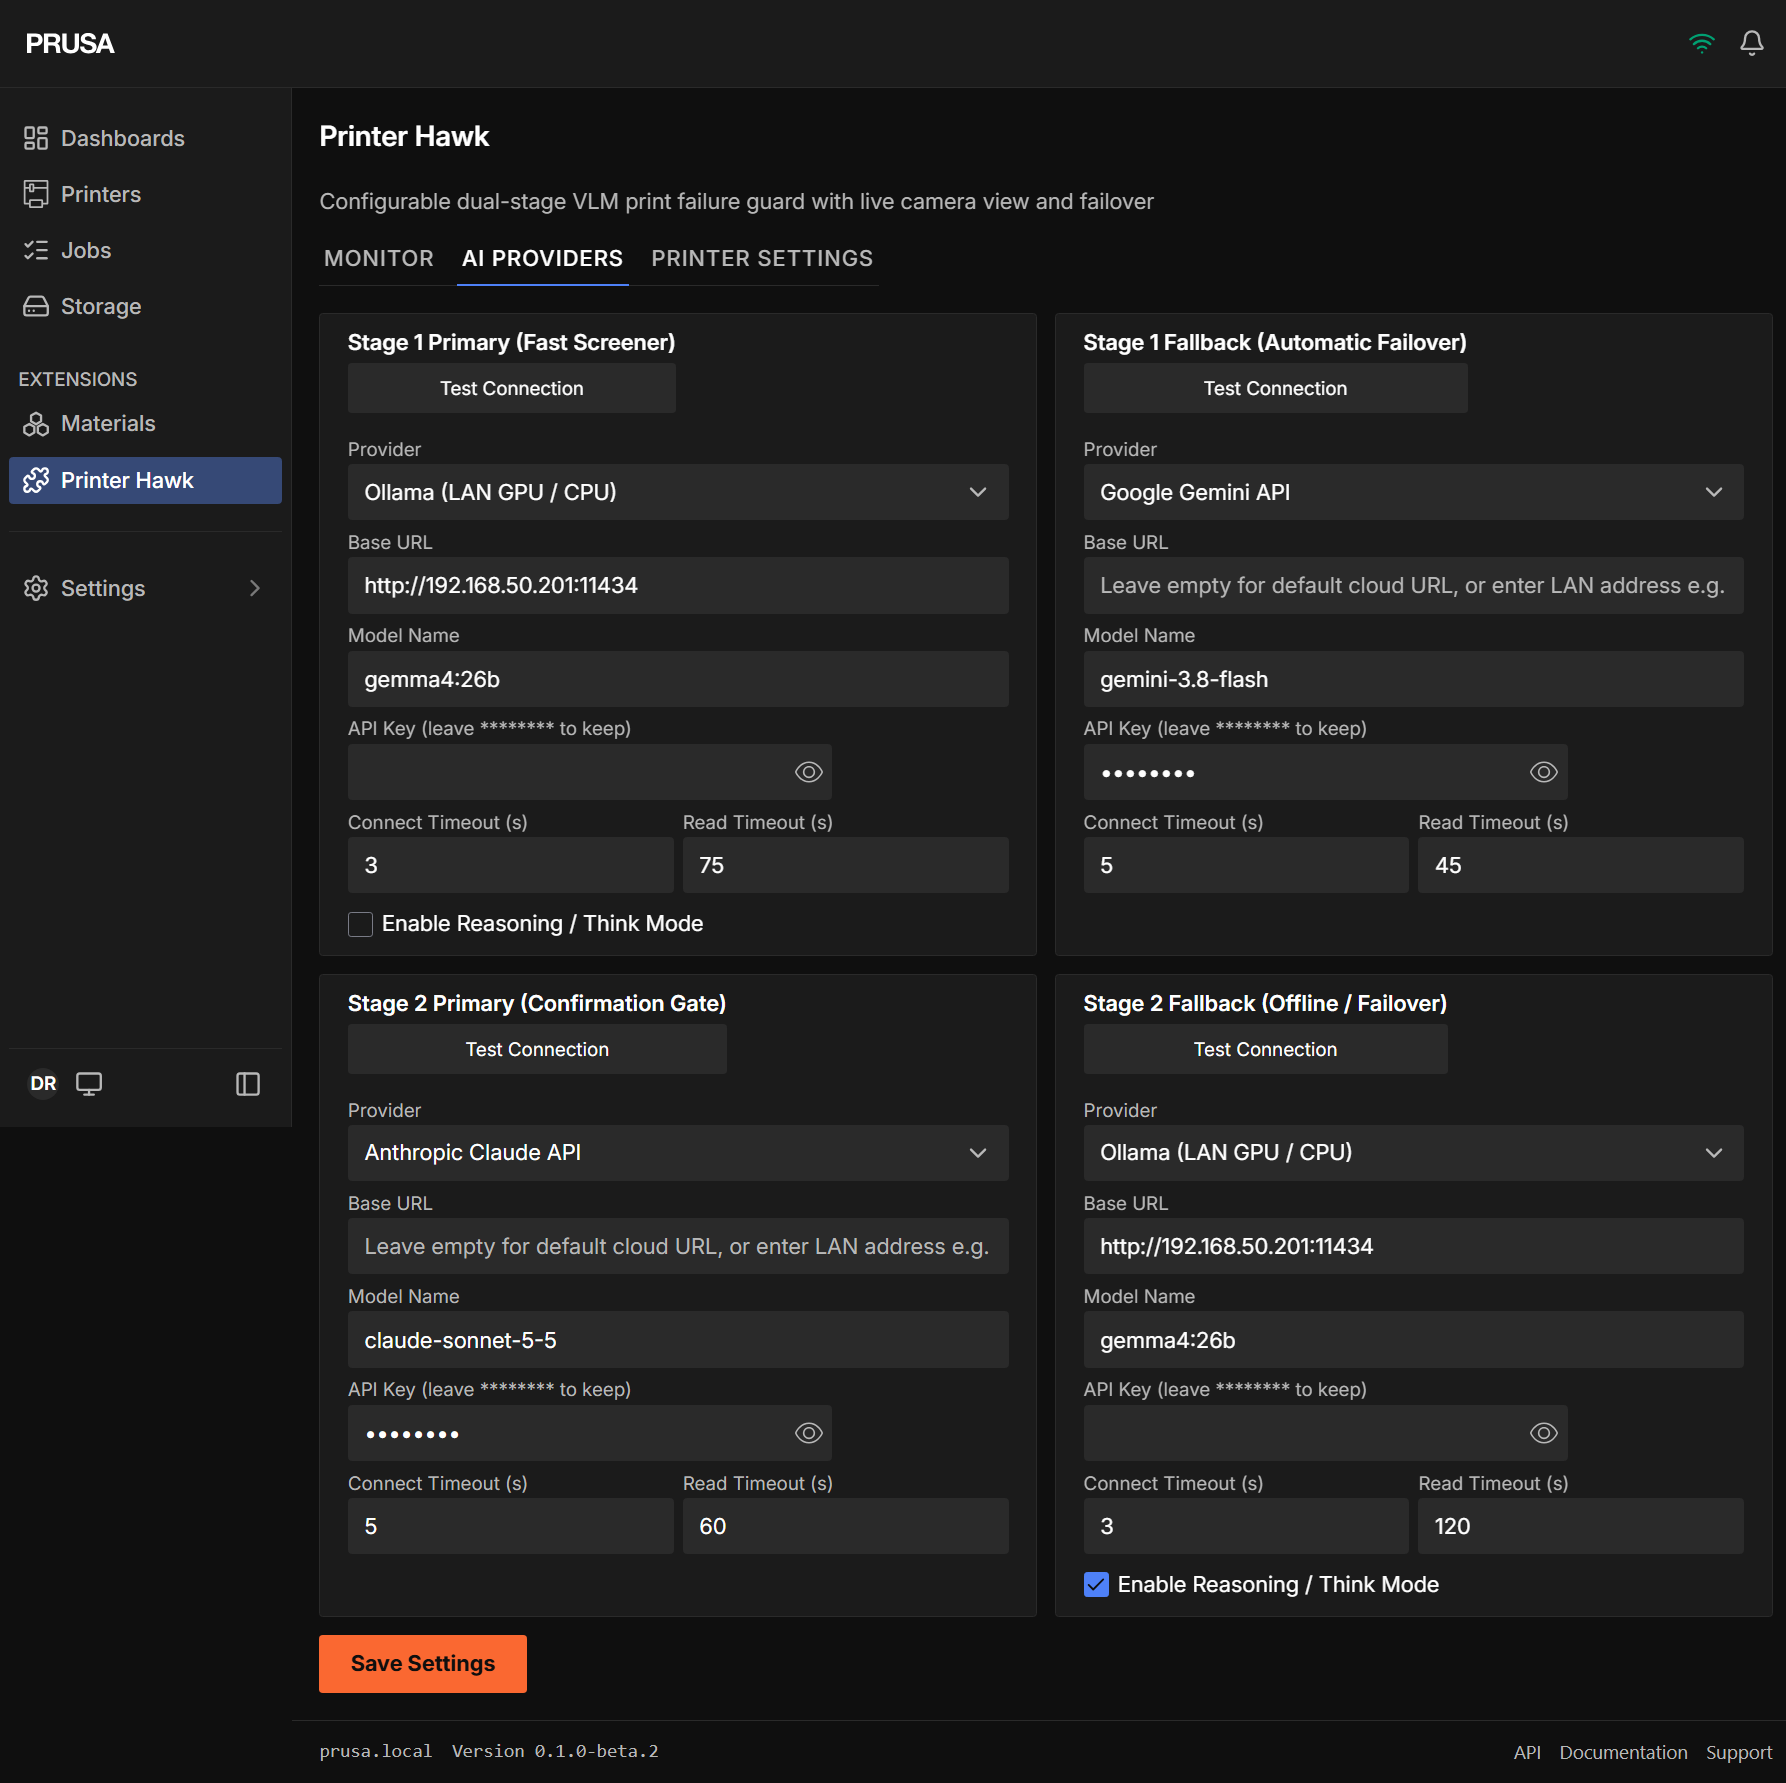
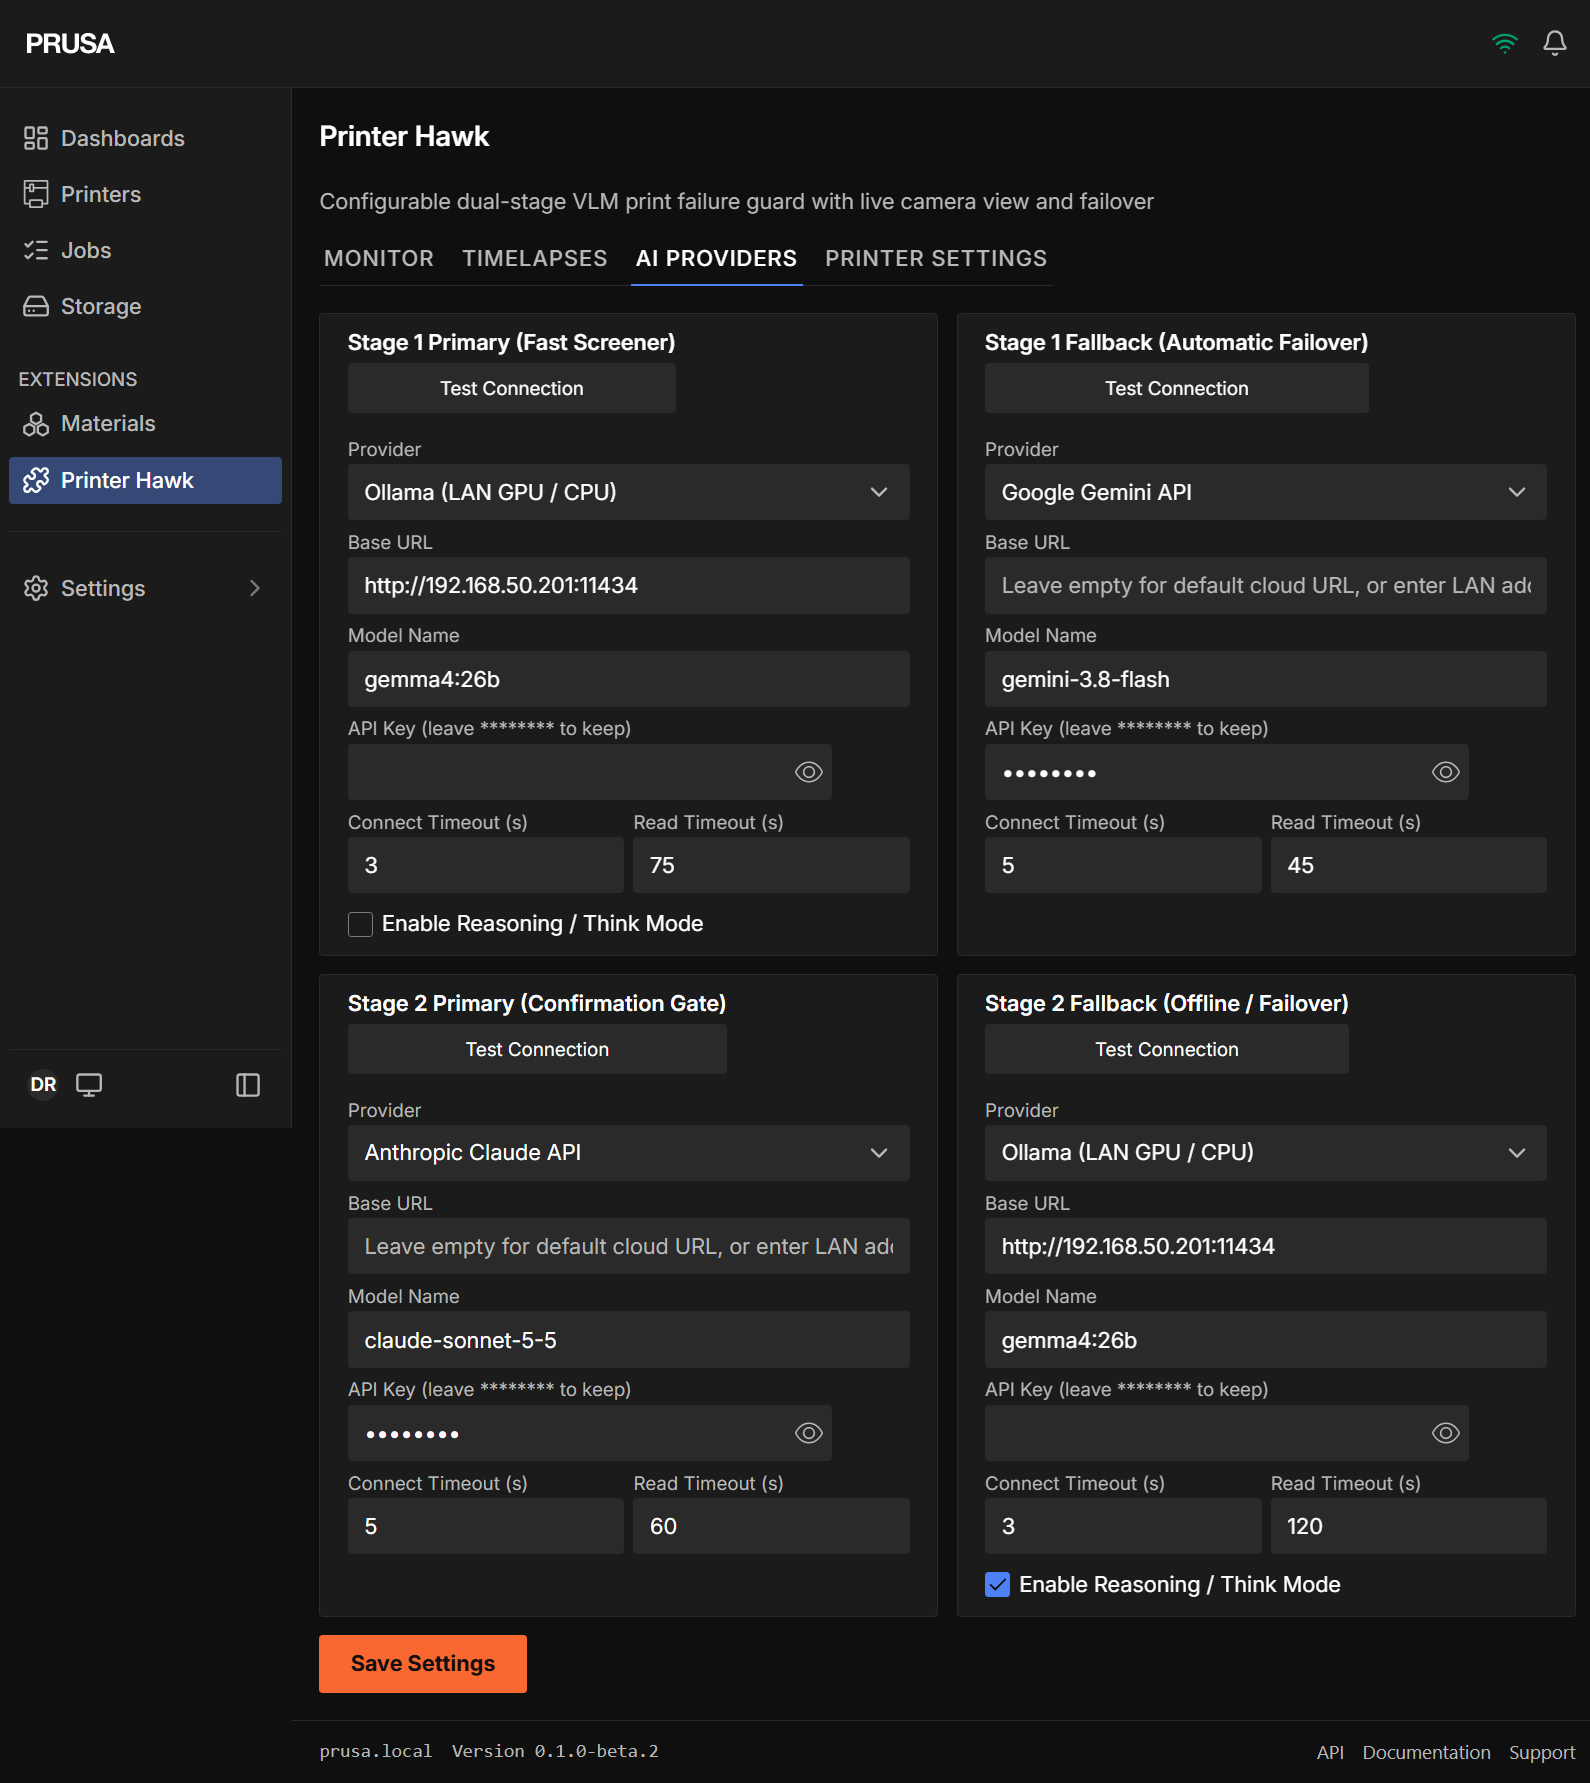
Refresh README user guide and UI screenshots for timelapses

diff --git a/README.md b/README.md
@@ -1,12 +1,15 @@
 # Printer Hawk — Dual-Stage VLM Print Failure Guard for Prusa Connect Local
 
-**Printer Hawk** is a native Prusa Connect Local extension (`com.github.aux.ln4cy.printer-hawk`) that monitors 3D prints with Vision-Language Models (VLMs) instead of single-frame spaghetti-only heuristics. It works with **any combination** of local GPU/CPU inference (**Ollama**, **LM Studio**, **vLLM**, **llama.cpp**) and cloud APIs (**Gemini**, **Anthropic Claude**, **OpenAI / OpenRouter**), with automatic Primary -> Fallback failover.
+**Printer Hawk** is a native Prusa Connect Local extension (`com.github.aux.ln4cy.printer-hawk`) that monitors 3D prints with Vision-Language Models (VLMs) and records whole-print timelapses directly from your printer camera relay. Instead of single-frame spaghetti-only heuristics, it works with **any combination** of local GPU/CPU inference (**Ollama**, **LM Studio**, **vLLM**, **llama.cpp**) and cloud APIs (**Gemini**, **Anthropic Claude**, **OpenAI / OpenRouter**), with automatic Primary -> Fallback failover.
 
 ## Key Features
 
 - **Dual-Stage AI Verification (with Failover):**
   - **Stage 1 (Fast Screener):** Runs on every settled layer change (or fallback timer) with previous + current frames and live printer telemetry (Z height, nozzle/bed temperatures, progress). Automatically fails over from **Stage 1 Primary -> Stage 1 Fallback** if the primary is unreachable or busy.
   - **Stage 2 (Confirmation Gate):** Triggered only when Stage 1 flags a failure or repeated warnings (`Warnings Before Stage 2`). Compares earlier bed baseline + previous clean + current frames to rule out supports, purge towers, glossy reflections, or shadows before pausing. Supports **Stage 2 Primary -> Stage 2 Fallback** or single-stage operation when Stage 2 is set to `Disabled (none)`.
+- **Whole-Print Timelapses & Browser Video Export:**
+  - Automatically records **Per Layer** (settled Z advance + print start/finish) or **Fixed Interval** timelapses from your configured `go2rtc` Live JPEG URL or Prusa Connect snapshots, independent of whether AI monitoring is enabled.
+  - Includes a built-in canvas player, frame scrubber slider, FPS selector (`10 / 15 / 24 / 30 / 60 fps`), retention pruning, and one-click client-side `.mp4` / `.webm` **Export Video** in the browser (zero server `ffmpeg` or Buddy3D onboard camera load).
 - **Per-Layer Z Tracking (Toolchanger & Z-Hop Safe):**
   - Ignores short Z-hops and large multi-tool travel lifts (`Z > ConfirmedZ + Max Z Step`).
   - Re-baselines cleanly downward if warmup finishes while parked high (for example `Z = 40 mm`) before Layer 1.
@@ -16,6 +19,7 @@
   - **Custom Live JPEG URL (`go2rtc` / HTTP):** Pulls live JPEGs directly from an HTTP snapshot endpoint (such as a single-connection `go2rtc` RTSP relay on `http://127.0.0.1:1984/api/frame.jpeg?src=coreone`), with automatic fallback to Prusa Connect snapshots on error.
 - **Native UI Controls & Stored Frame History:**
   - Available both as a fleet-wide **Printer Hawk** sidebar page and as an embedded **Printer Hawk** tab on every printer page.
+  - Asynchronous **Dry-Run Stage 1** and **Dry-Run Stage 1 + 2** checks run in the background without hitting Prusa Connect Local's 10s route timeout.
   - **Live Camera / Last AI Frame** toggle with configurable refresh rate (`1s`, `2s`, `5s`, `Custom`, `Paused`).
   - **False Alarm (Accept Bed)** promotes the current bed frame as the new clean baseline and clears the pause latch.
   - Rolling historical frames stored on disk so you can click **Inspect Frame** on any past check.
@@ -71,8 +75,8 @@ docker compose restart prusa-connect
 The **Monitor** tab (and the **Printer Hawk** tab inside each individual printer page) gives live operational control and check history:
 
 - **Top Action Buttons:**
-  - **Dry-Run Stage 1:** Captures the current camera frame right now and runs Stage 1 only (never pauses or latches an alert).
-  - **Dry-Run Stage 1 + 2:** Forces both Stage 1 and Stage 2 verification on the current frame so you can test the confirmation pipeline without affecting an active print.
+  - **Dry-Run Stage 1:** Queues an asynchronous snapshot + Stage 1 inspection on the current camera frame (never pauses or latches an alert) and refreshes results automatically when finished.
+  - **Dry-Run Stage 1 + 2:** Queues both Stage 1 and Stage 2 verification on the current frame so you can test the confirmation pipeline asynchronously without hitting route timeouts or affecting an active print.
   - **False Alarm (Accept Bed):** Clears an active alert/latch and promotes the latest analyzed frame as the clean reference baseline for subsequent Stage 2 comparisons.
   - **Clear Alert:** Resets `FAILURE ALERT ACTIVE`, consecutive warning count, and per-job pause latch without changing the reference frame.
   - **Pause Print:** Manually sends `core.command.pause_print` to the connected printer (requires caller `operate` permission).
@@ -80,11 +84,40 @@ The **Monitor** tab (and the **Printer Hawk** tab inside each individual printer
 - **Camera Viewer:**
   - Switch between **Live Camera** (polls `/live.jpg` from your configured source) and **Last AI Frame** (shows the exact stored frame from the most recent check).
   - Use the refresh dropdown (`1s`, `2s`, `5s`, `Custom`, `Paused`) to tune live preview polling. Selecting **Custom** reveals a seconds box (minimum `0.5s`, default `10s`).
-- **Recent Checks Table:** Shows timestamp, trigger (`layer_baseline`, `layer_advance`, `layer_rebaseline`, `timer_fallback`, `dry_run`), image source, Stage 1 & Stage 2 verdicts/models (including failover badges when fallback ran), action taken, and an **Inspect Frame** button to open the archived JPEG alongside the AI's reasoning.
+- **Recent Checks Table:** Shows timestamp, trigger (`layer_baseline`, `layer_advance`, `layer_rebaseline`, `timer_fallback`, `manual_inspect`), image source, Stage 1 & Stage 2 verdicts/models (including failover badges when fallback ran), action taken, and an **Inspect Frame** button to open the archived JPEG alongside the AI's reasoning.
 
 ---
 
-### 2. AI Providers & Automatic Failover
+### 2. Whole-Print Timelapses (No Buddy3D Onboard Timelapse Needed)
+
+![Printer Hawk Timelapses tab](docs/images/timelapses.png)
+
+Printer Hawk records complete print timelapses directly on the Prusa Connect Local host (`<data_dir>/timelapses/`) using your configured **Live JPEG URL** (`go2rtc`) or **Prusa Connect Snapshots**, independent of whether AI failure monitoring is enabled:
+
+1. Enable **Whole-Print Timelapse Recording** under **Printer Settings** (see [Section 4](#4-printer-settings-timelapse-config-z-layer-tuning--mqtt)):
+   - **Per Layer (Automatic Z):** Captures the initial frame when printing starts, one settled frame on each layer advance, and a final completion frame when the print reaches `FINISHED`.
+   - **Fixed Interval:** Captures a frame every `Capture Interval (seconds)` (minimum `5s`) throughout the print.
+   - **Default Playback / Export FPS:** Default frame rate (`1-60`, default `24`) and **Max Saved Timelapses per Printer** retention limit (default `20`).
+2. Watch & export in the **Timelapses** tab:
+   - Play/Pause, step **Prev**/**Next** frame, scrub any frame with the slider, switch **Playback FPS** (`10 / 15 / 24 / 30 / 60 fps`), **Delete** old sessions, or click **Export Video** to render and download an `.mp4` / `.webm` video directly in your browser.
+3. **Important if migrating from Buddy3D UDP / G-code timelapse scripts (`M334` / `BUDDY_TIMELAPSE_*`):**
+   - **Remove** the `M334` / `M331 gcode` / `M118 BUDDY_TIMELAPSE_*` blocks from your PrusaSlicer Start, Layer, and End G-code and disable Buddy3D's onboard `Per Layer` timelapse. Running onboard Buddy3D timelapse alongside RTSP causes extra camera RAM load and freezes snapshots.
+   - Because Printer Hawk tracks layer Z transitions natively, **no custom G-code is required**.
+   - *(Optional)* If you want head-free parked-head timelapses with Printer Hawk, keep only the pure motion commands (no `M334`/`M331`/`M118`) in **After layer change G-code** with a `5s` dwell (`G4 P5000` > Printer Hawk's `4s` **Z Settle Time**):
+
+```gcode
+; Optional parked-head timelapse capture (motion only, no Buddy3D M118 markers)
+G10
+G1 X0 Y210 F9000
+M400
+G4 P5000
+G1 X{first_layer_print_min[0]} Y{first_layer_print_min[1]} F9000
+G11
+```
+
+---
+
+### 3. AI Providers & Automatic Failover
 
 ![Printer Hawk AI Providers tab](docs/images/ai-providers.png)
 
@@ -118,7 +151,7 @@ Saved API keys are stored only on the server (`<data_dir>/settings.json`, `0600`
 
 ---
 
-### 3. Printer Settings, Z-Layer Tuning & MQTT
+### 4. Printer Settings, Timelapse Config, Z-Layer Tuning & MQTT
 
 ![Printer Hawk Printer Settings tab](docs/images/printer-settings.png)
 
@@ -133,37 +166,11 @@ In **Printer Settings**, choose **Default Settings for New Printers** or select 
   - `Min Check Interval (15s)`: Minimum spacing between AI checks.
   - `Long-Layer Max Wait (60s)`: Fires a `timer_fallback` inspection when a single large layer takes longer than this duration.
 - **Decision Thresholds & Prompt Notes:** Adjust `Stage 1 Fail Confidence` (default `0.65`), `Stage 2 Pause Confidence` (default `0.75`), and add **Extra Vision Prompt Notes** for printer-specific quirks (e.g., purge towers, textured PEI sheet, dark enclosure lighting, multi-toolhead parking).
+- **Whole-Print Timelapse Recording:** Choose **Recording Mode** (`Off`, `Per Layer`, or `Fixed Interval` with `Capture Interval`), set **Default Playback / Export FPS** (`1-60`), and cap **Max Saved Timelapses per Printer** (see [Section 2](#2-whole-print-timelapses-no-buddy3d-onboard-timelapse-needed)).
 - **Optional Smart-Home MQTT Publisher:** Set **MQTT Broker Host** (e.g. `127.0.0.1`), **Port** (`1883`), and **Topic Prefix** (default `prusa/printer-hawk`). Leave **MQTT Broker Host** blank to disable MQTT. When enabled, Printer Hawk publishes retained topics per printer:
   - `<prefix>/<printer_id>/printing` -> `ON` / `OFF`
   - `<prefix>/<printer_id>/alert` -> `ON` / `OFF`
   - `<prefix>/<printer_id>/status` -> JSON payload with latest Z/layer, Stage 1/2 verdict, and action taken.
-
----
-
-### 4. Whole-Print Timelapses (No Buddy3D Onboard Timelapse Needed)
-
-Printer Hawk records complete print timelapses directly on the Prusa Connect Local host (`<data_dir>/timelapses/`) using your configured **Live JPEG URL** (`go2rtc`) or **Prusa Connect Snapshots**, independent of whether AI failure monitoring is enabled:
-
-1. Enable **Whole-Print Timelapse Recording** under **Printer Settings**:
-   - **Per Layer (Automatic Z):** Captures the initial frame when printing starts, one settled frame on each layer advance, and a final completion frame when the print reaches `FINISHED`.
-   - **Fixed Interval:** Captures a frame every `Capture Interval (seconds)` (minimum `5s`) throughout the print.
-   - **Default Playback / Export FPS:** Default frame rate (`1-60`, default `24`) and **Max Saved Timelapses per Printer** retention limit (default `20`).
-2. Watch & export in the **Timelapses** tab:
-   - Play/Pause, step Prev/Next frame, scrub any frame with the slider, switch FPS (`10 / 15 / 24 / 30 / 60 fps`), delete old sessions, or click **Export Video** to render and download an `.mp4` / `.webm` video directly in your browser.
-3. **Important if migrating from Buddy3D UDP / G-code timelapse scripts (`M334` / `BUDDY_TIMELAPSE_*`):**
-   - **Remove** the `M334` / `M331 gcode` / `M118 BUDDY_TIMELAPSE_*` blocks from your PrusaSlicer Start, Layer, and End G-code and disable Buddy3D's onboard `Per Layer` timelapse. Running onboard Buddy3D timelapse alongside RTSP causes extra camera RAM load and freezes snapshots.
-   - Because Printer Hawk tracks layer Z transitions natively, **no custom G-code is required**.
-   - *(Optional)* If you want head-free parked-head timelapses with Printer Hawk, keep only the pure motion commands (no `M334`/`M331`/`M118`) in **After layer change G-code** with a `5s` dwell (`G4 P5000` > Printer Hawk's `4s` **Z Settle Time**):
-
-```gcode
-; Optional parked-head timelapse capture (motion only, no Buddy3D M118 markers)
-G10
-G1 X0 Y210 F9000
-M400
-G4 P5000
-G1 X{first_layer_print_min[0]} Y{first_layer_print_min[1]} F9000
-G11
-```
 
 ---
 
